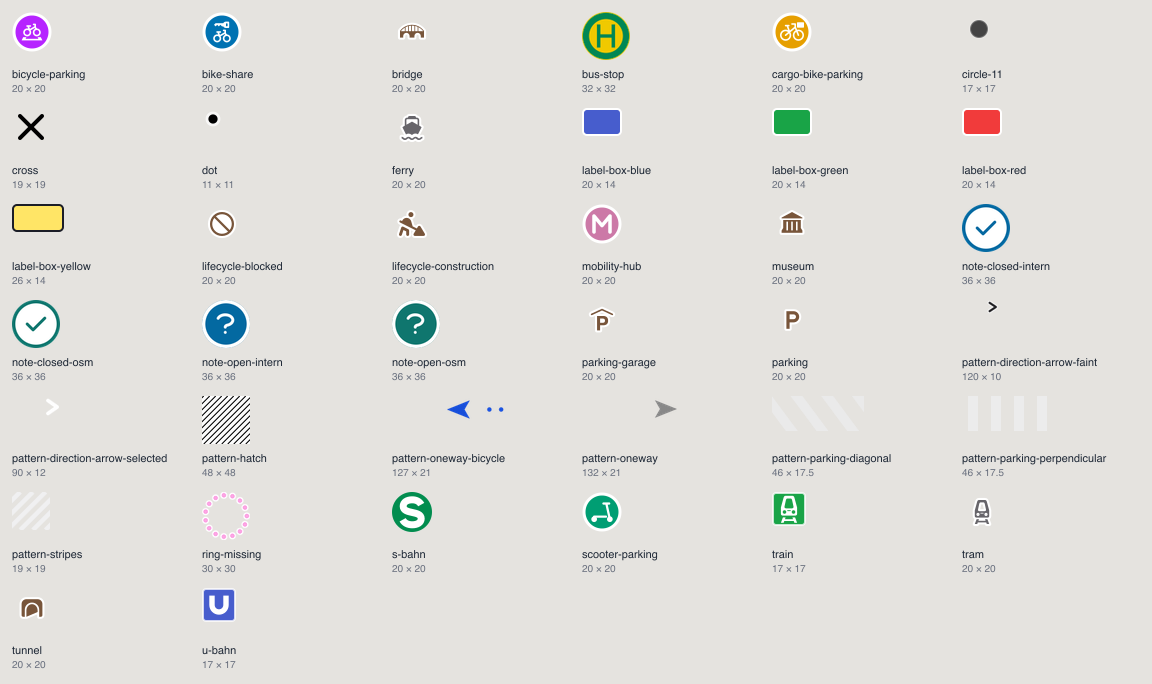
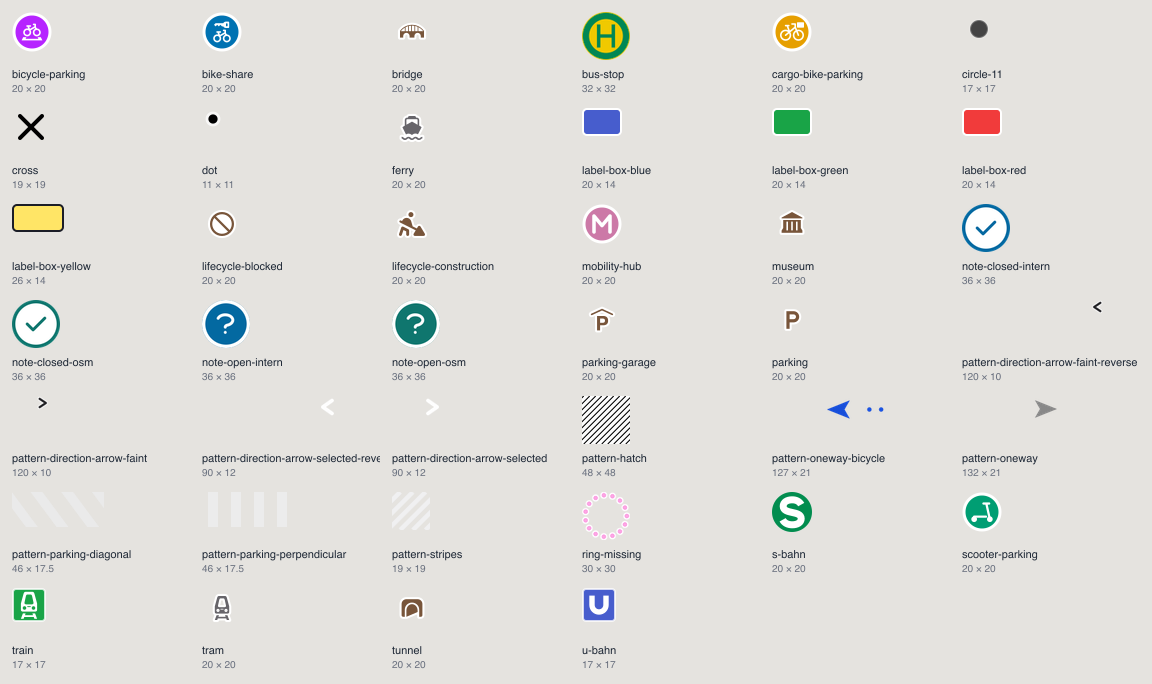
Map: Direction arrows of static datasets can point against the line
- A line layer of a static dataset can set `reverseDirectionArrows: true` when its features run against their geometry; its arrows then point backwards, on the selected line and in the faint arrows from zoom 19
- For infraVelo Datensatz B and C: the counter direction (`ri = 1`) shares the geometry of `ri = 0`, so both sides of a street showed arrows in the same direction
- The static datasets need a re-upload to use it

diff --git a/app/src/components/regionen/pageRegionSlug/Map/SourcesAndLayers/directionArrows/directionArrowLayers.ts b/app/src/components/regionen/pageRegionSlug/Map/SourcesAndLayers/directionArrows/directionArrowLayers.ts
@@ -18,6 +18,8 @@ export type DirectionArrowLineEntry = {
   sourceId: string
   sourceLayer: string | undefined
   layerProps: LayerProps
+  /** Arrows against the geometry, with the `-reverse` patterns. */
+  reverseDirectionArrows?: boolean
 }
 
 // Hit areas (`line-opacity: 0`) only catch clicks, they draw no line.
@@ -49,21 +51,25 @@ const selected = ['boolean', ['feature-state', 'selected'], false] satisfies Exp
  * a street on one centerline. Lines with another `line-offset` get their own layers.
  */
 export function buildDirectionArrowLayers(entries: DirectionArrowLineEntry[]) {
-  const groups = new Map<string, DirectionArrowLineEntry & { lines: LineLayerProps[] }>()
+  const groups = new Map<
+    string,
+    DirectionArrowLineEntry & { suffix: string; lines: LineLayerProps[] }
+  >()
   for (const entry of entries) {
     const line = entry.layerProps
     if (!isVisibleLine(line)) continue
     if (line.maxzoom !== undefined && line.maxzoom <= DIRECTION_ARROWS_SELECTED_MINZOOM) continue
     const offset = JSON.stringify(line.paint?.['line-offset'] ?? 0)
-    const key = `${entry.sourceKey}--${entry.sourceLayer ?? ''}--${offset}`
-    const group = groups.get(key) ?? { ...entry, lines: [] }
+    const suffix = entry.reverseDirectionArrows ? '-reverse' : ''
+    const key = `${entry.sourceKey}--${entry.sourceLayer ?? ''}--${offset}${suffix}`
+    const group = groups.get(key) ?? { ...entry, suffix, lines: [] }
     group.lines.push(line)
     groups.set(key, group)
   }
 
   const shownData = new Set<string>()
   return Array.from(groups.values()).flatMap(
-    ({ sourceKey, sourceId, sourceLayer, lines }, index) => {
+    ({ sourceKey, sourceId, sourceLayer, suffix, lines }, index) => {
       const filters = lines.map((line) => line.filter)
       const maxzooms = lines.map((line) => line.maxzoom)
       const maxzoom = maxzooms.every((zoom) => zoom !== undefined)
@@ -90,7 +96,7 @@ export function buildDirectionArrowLayers(entries: DirectionArrowLineEntry[]) {
         ...(maxzoom !== undefined && { maxzoom }),
         layout: { 'line-join': 'round' },
         paint: {
-          'line-pattern': pattern,
+          'line-pattern': `${pattern}${suffix}`,
           'line-width': heightPx,
           'line-opacity': opacity,
           ...(lineOffset !== undefined && { 'line-offset': lineOffset }),
@@ -104,7 +110,7 @@ export function buildDirectionArrowLayers(entries: DirectionArrowLineEntry[]) {
         0,
       ])
       // Map sources of the same data draw the faint arrows once.
-      const dataKey = `${sourceId}--${sourceLayer ?? ''}--${JSON.stringify(lineOffset ?? 0)}`
+      const dataKey = `${sourceId}--${sourceLayer ?? ''}--${JSON.stringify(lineOffset ?? 0)}${suffix}`
       if (shownData.has(dataKey)) return [selectedLayer]
       shownData.add(dataKey)
       return [

diff --git a/app/src/components/regionen/pageRegionSlug/Map/SourcesAndLayers/directionArrows/directionArrowLayers.test.ts b/app/src/components/regionen/pageRegionSlug/Map/SourcesAndLayers/directionArrows/directionArrowLayers.test.ts
@@ -97,4 +97,17 @@ describe('buildDirectionArrowLayers', () => {
       3,
     ])
   })
+
+  test('reversed lines get their own layers with the reversed patterns', () => {
+    const layers = buildDirectionArrowLayers([
+      entry(line('forward')),
+      entry(line('backward'), { reverseDirectionArrows: true }),
+    ])
+    expect(layers.map((layer) => layer.paint?.['line-pattern'])).toEqual([
+      'pattern-direction-arrow-faint',
+      'pattern-direction-arrow-selected',
+      'pattern-direction-arrow-faint-reverse',
+      'pattern-direction-arrow-selected-reverse',
+    ])
+  })
 })

diff --git a/app/scripts/StaticDatasets/types.ts b/app/scripts/StaticDatasets/types.ts
@@ -30,7 +30,11 @@ type MapDataDatasetsSourceBase = {
       >
     | Omit<
         LineLayerSpecification &
-          Required<Pick<LineLayerSpecification, 'paint'>> & { beforeId?: string },
+          Required<Pick<LineLayerSpecification, 'paint'>> & {
+            beforeId?: string
+            /** @desc The direction arrows point against the geometry, e.g. for a counter direction. */
+            reverseDirectionArrows?: boolean
+          },
         'source'
       >
     | Omit<

diff --git a/app/src/components/regionen/pageRegionSlug/Map/SourcesAndLayers/SourcesLayersStaticDatasets.tsx b/app/src/components/regionen/pageRegionSlug/Map/SourcesAndLayers/SourcesLayersStaticDatasets.tsx
@@ -54,6 +54,7 @@ export const LayersStaticDatasets = () => {
         sourceKey,
         sourceId: sourceKey,
         sourceLayer,
+        reverseDirectionArrows: layer.type === 'line' && layer.reverseDirectionArrows,
         layerProps: buildUploadLayerProps({
           layer: layer as RenderableUploadLayer,
           layerId,

diff --git a/app/src/server/api/map-style/spriteVersion.const.ts b/app/src/server/api/map-style/spriteVersion.const.ts
@@ -1,2 +1,2 @@
 // Generated by `bun run map-sprite-build`. See `scripts/map-style/spriteVersion.ts`.
-export const SPRITE_VERSION = '1748cd94b4'
+export const SPRITE_VERSION = 'cdec88d010'
